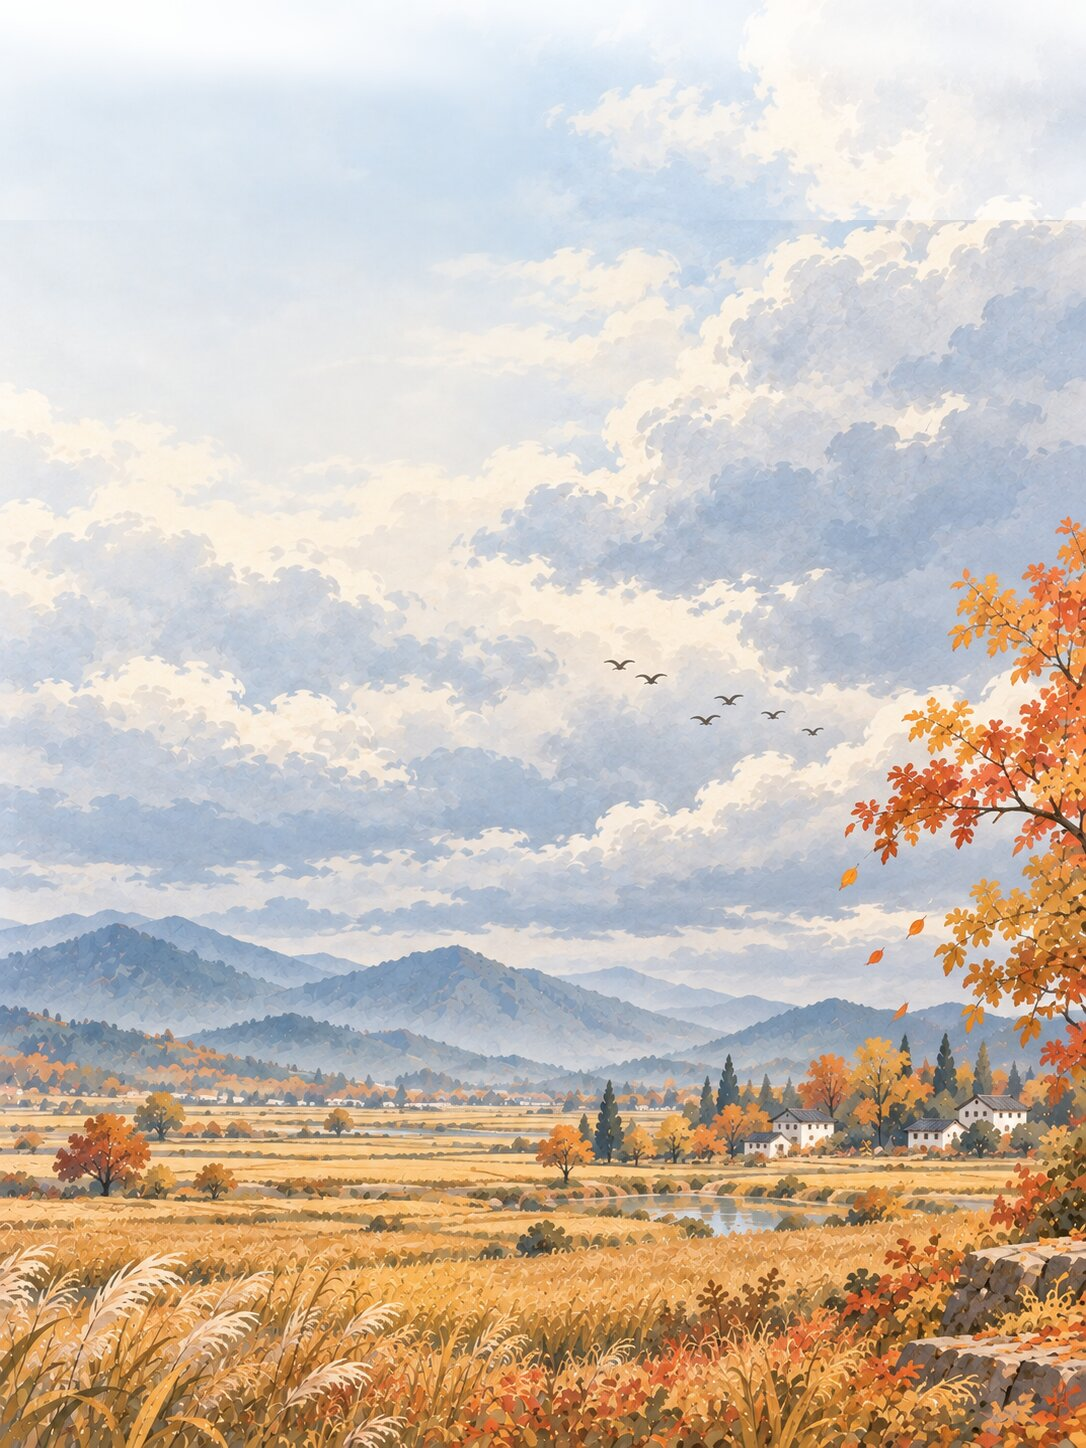
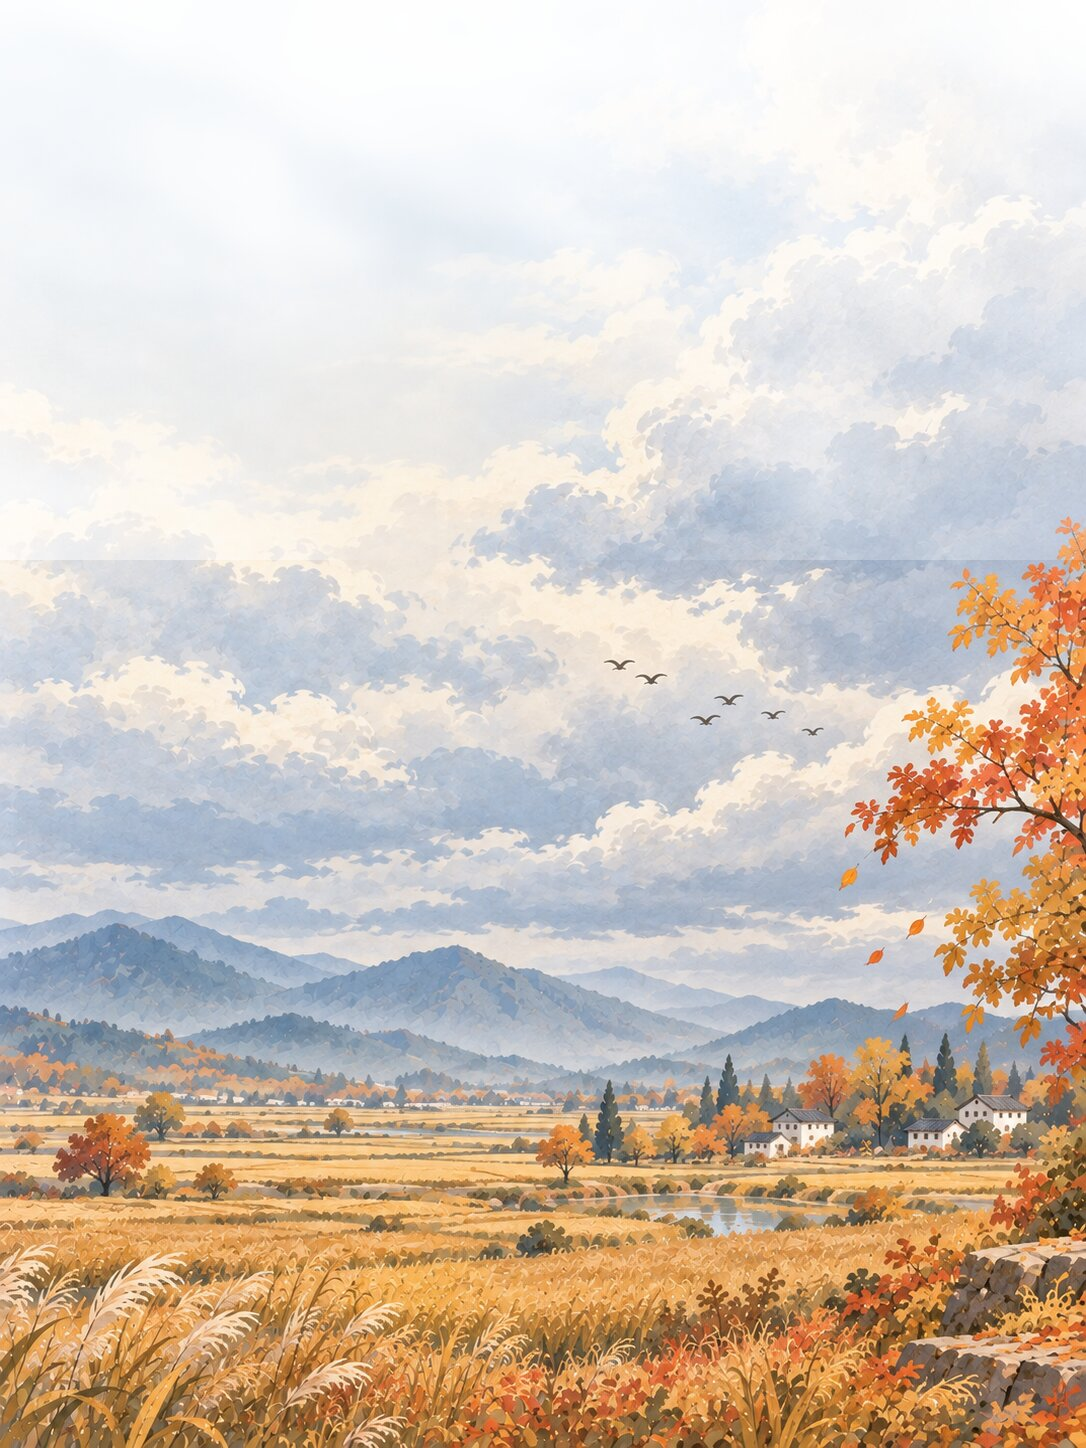
feat(space): 首页大卡照新概念图改为 时钟+天气+横幅; 新增横幅素材
概念图的顶卡是: 左边日期与大时钟加一句话, 右边城市/天气图标/温度/高低温,
下缘整宽一条风景横幅。原来整卡只有天气, 且插画取的是竖图中段, 正好是天空,
显示出来就是一片白。
tools/make-weather-scenes.sh 增出 *-band.jpg: 从原图纵向 68% 处裁一条占原高一成八
的横幅 (画面下部内容最实), 再给横幅自己烤一条上缘渐隐。小组件优先用横幅,
缺则回落整图。

Claude-Session: https://claude.ai/code/session_017VacDMR1k8eBshxMAHzAMX

Changed region(s): [[0.1215, 0.0311, 1.0, 0.404], [0.9724, 0.3419, 1.0, 0.404], [0.9724, 0.0622, 1.0, 0.0932]]

diff --git a/space/apps/weather/widget.qml b/space/apps/weather/widget.qml
@@ -48,25 +48,26 @@ Item {
     }
     Component.onCompleted: load()
 
-    // ── 插画: 整宽铺在卡片下缘 ──────────────────────────────────────
-    // 素材的上缘渐隐是烤在图里的, 所以取渐隐末尾往下那一段, 顶边自然化开,
-    // 与卡片白底连成一片, 不需要在屏幕上做半透明合成。
+    // ── 插画横幅: 整宽铺在卡片下缘 ────────────────────────────────
+    // 用 *-band.jpg (画面下部裁出的横幅, 上缘渐隐已烤在图里)。
+    // 竖构图的整图塞进这么扁的带子只能取到天空那一片白, 所以单独出了横幅素材。
     Item {
         id: band
         anchors.left: parent.left; anchors.right: parent.right; anchors.bottom: parent.bottom
         height: Math.round(parent.height * 0.42)
         clip: true
         Image {
-            id: bandImg
-            readonly property bool useFallback: String(source).indexOf("/scenes/") < 0
-            readonly property real sw: sourceSize.width > 0 ? sourceSize.width : 1
-            readonly property real sh: sourceSize.height > 0 ? sourceSize.height : 1
-            width: parent.width
-            height: useFallback ? parent.height : Math.round(width * sh / sw)
-            y: useFallback ? 0 : -Math.round(height * 0.325)
-            fillMode: useFallback ? Image.PreserveAspectFit : Image.Stretch
-            sourceSize.width: 900
-            property var chain: w.wx ? W.sceneChain(w.wx, w.now) : []
+            anchors.fill: parent
+            fillMode: Image.PreserveAspectCrop
+            sourceSize.width: 1100
+            property var chain: {
+                if (!w.wx) return []
+                var base = W.sceneChain(w.wx, w.now)
+                var out = []
+                for (var i = 0; i < base.length; ++i)
+                    if (base[i].indexOf(".jpg") > 0) out.push(base[i].replace(".jpg", "-band.jpg"))
+                return out.concat(base)
+            }
             property int step: 0
             source: chain.length ? w.dir + chain[0] : ""
             visible: status === Image.Ready
@@ -80,17 +81,34 @@ Item {
         }
     }
 
-    // ── 文字: 压在卡片上半 ──────────────────────────────────────────
+    // ── 左: 日期 + 时间 + 一句话 ──────────────────────────────────
     Column {
         anchors.left: parent.left; anchors.leftMargin: w.u(32)
-        anchors.top: parent.top; anchors.topMargin: w.u(24)
+        anchors.top: parent.top; anchors.topMargin: w.u(26)
+        width: parent.width * 0.5
         spacing: w.u(2)
-
         Text {
-            text: w.now.toLocaleDateString(Qt.locale("zh_CN"), "M月d日 dddd") + "   " + Qt.formatTime(w.now, "HH:mm")
-            font.pixelSize: w.f(22); color: "#1F1E1B"
+            text: w.now.toLocaleDateString(Qt.locale("zh_CN"), "M月d日 dddd")
+            font.pixelSize: w.f(24); color: "#000000"
         }
+        Text {
+            text: Qt.formatTime(w.now, "HH:mm")
+            font.pixelSize: w.f(92); font.weight: Font.Light; color: "#000000"
+        }
+        Text {
+            width: parent.width
+            text: w.wx ? w.wx.advice : (w.err !== "" ? w.err + "，点这里重试" : "")
+            font.pixelSize: w.f(22); color: "#000000"; elide: Text.ElideRight
+        }
+    }
+
+    // ── 右: 城市 + 天气 ───────────────────────────────────────────
+    Column {
+        anchors.right: parent.right; anchors.rightMargin: w.u(36)
+        anchors.top: parent.top; anchors.topMargin: w.u(26)
+        spacing: w.u(4)
         Row {
+            anchors.right: parent.right
             spacing: w.u(8)
             Image {
                 anchors.verticalCenter: parent.verticalCenter
@@ -103,41 +121,32 @@ Item {
             }
         }
         Row {
-            spacing: w.u(4)
-            Text { text: w.wx ? String(w.t(w.wx.temp)) : "--"; font.pixelSize: w.f(88); font.weight: Font.Light; color: "#000000" }
+            anchors.right: parent.right
+            spacing: w.u(10)
+            Image {
+                anchors.verticalCenter: parent.verticalCenter
+                width: w.u(76); height: width
+                sourceSize.width: 160; sourceSize.height: 160
+                source: w.wx ? (w.dir + W.codeIcon(w.wx.code, w.wx.day) + ".svg") : (w.dir + "w-sun.svg")
+                fillMode: Image.PreserveAspectFit
+            }
             Text {
-                text: W.unitSign(w.cfg ? w.cfg.unit : "c"); font.pixelSize: w.f(26); color: "#000000"
-                anchors.top: parent.top; anchors.topMargin: w.f(16)
+                anchors.verticalCenter: parent.verticalCenter
+                text: (w.wx ? String(w.t(w.wx.temp)) : "--") + W.unitSign(w.cfg ? w.cfg.unit : "c")
+                font.pixelSize: w.f(52); font.weight: Font.Light; color: "#000000"
             }
         }
         Text {
+            anchors.right: parent.right
             text: w.wx ? w.wx.text : (w.err !== "" ? "暂无天气数据" : "获取中…")
-            font.pixelSize: w.f(30); font.weight: Font.Bold; color: "#000000"
+            font.pixelSize: w.f(28); font.weight: Font.Bold; color: "#000000"
         }
         Text {
+            anchors.right: parent.right
             visible: !!w.wx
-            text: w.wx ? ("↑ " + w.t(w.wx.hi) + "°   ↓ " + w.t(w.wx.lo) + "°   湿度 " + w.wx.humidity + "%") : ""
+            text: w.wx ? ("↑ " + w.t(w.wx.hi) + "°   ↓ " + w.t(w.wx.lo) + "°") : ""
             font.pixelSize: w.f(22); color: "#000000"
         }
-    }
-
-    // 一句话建议: 贴在插画上缘那段化开的白里
-    Text {
-        anchors.left: parent.left; anchors.leftMargin: w.u(32)
-        anchors.right: parent.right; anchors.rightMargin: w.u(32)
-        anchors.bottom: band.top; anchors.bottomMargin: w.u(10)
-        text: w.wx ? w.wx.advice : (w.err !== "" ? w.err + "，点这里重试" : "")
-        font.pixelSize: w.f(22); color: "#000000"; elide: Text.ElideRight
-    }
-
-    // 天气图标: 卡片右上, 压在天空上
-    Image {
-        anchors.right: parent.right; anchors.rightMargin: w.u(36)
-        anchors.top: parent.top; anchors.topMargin: w.u(28)
-        width: w.u(110); height: width
-        sourceSize.width: 220; sourceSize.height: 220
-        source: w.wx ? (w.dir + W.codeIcon(w.wx.code, w.wx.day) + ".svg") : (w.dir + "w-sun.svg")
-        fillMode: Image.PreserveAspectFit
     }
 
     MouseArea {
